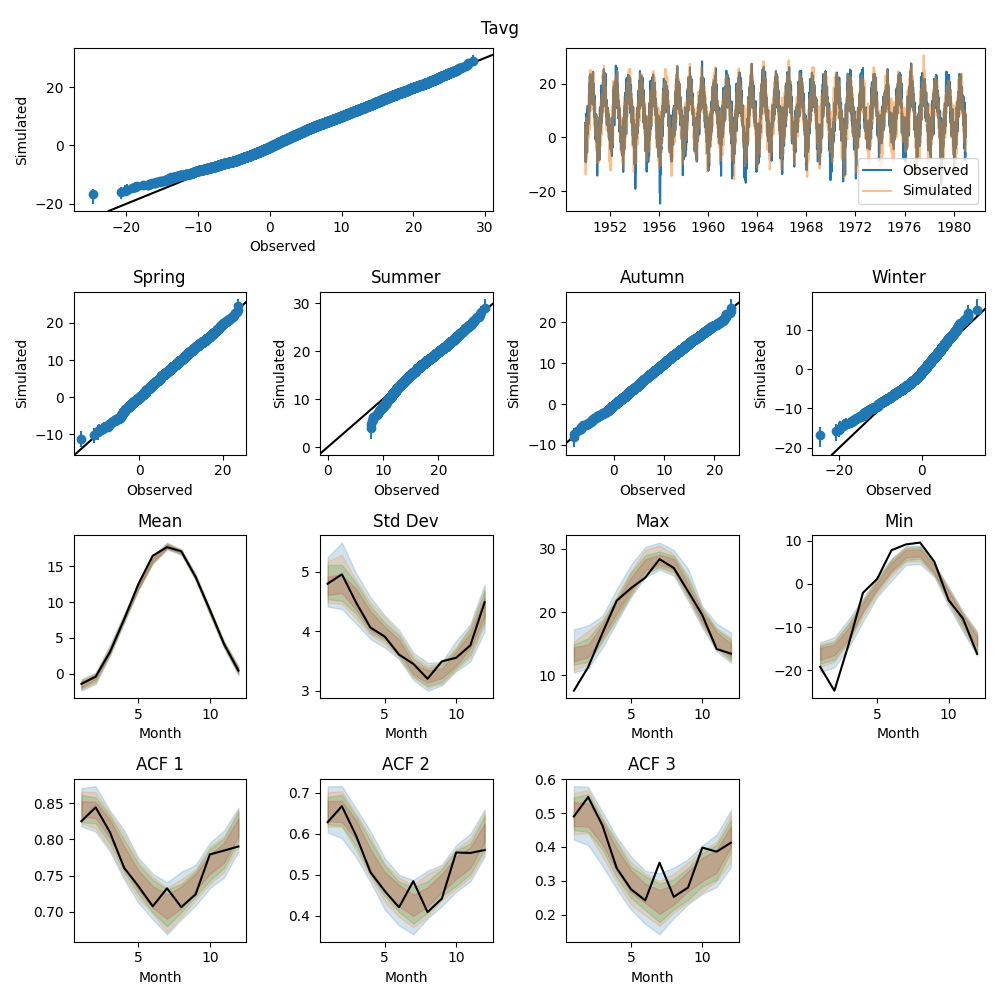
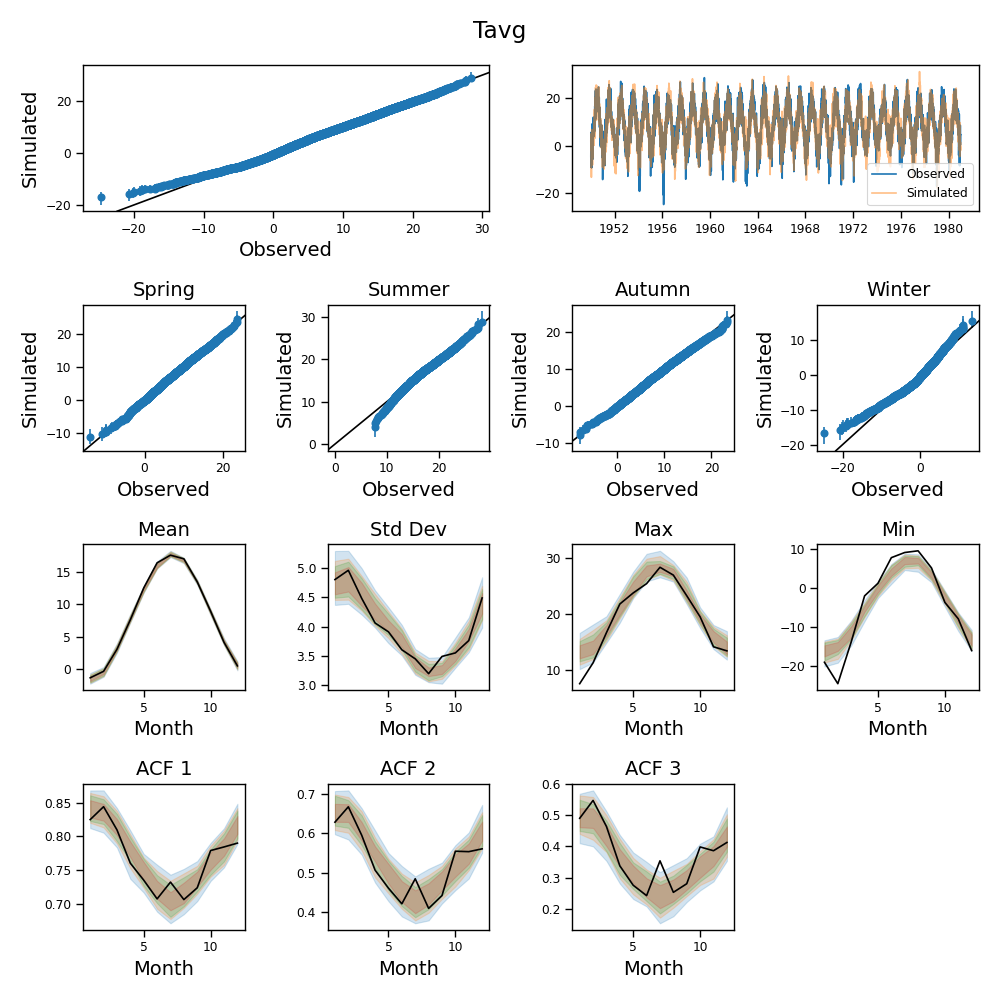
Plotting updates

diff --git a/weathergen/plotting.py b/weathergen/plotting.py
@@ -353,10 +353,10 @@ def Trange_overview(obs, svi_preds, basin_data_train):
 
     # Row 3
     ax_row_3 = [fig.add_subplot(gs[2, i]) for i in range(4)]
-    get_mean_plot(obs["Tavg"], svi_preds["Tavg"], basin_data_train.index, ax=ax_row_3[0])
-    get_std_plot(obs["Tavg"], svi_preds["Tavg"], basin_data_train.index, ax=ax_row_3[1])
-    get_acf_plot(obs["Tavg"], svi_preds["Tavg"], basin_data_train.index, ax=ax_row_3[2], lag=1)
-    get_acf_plot(obs["Tavg"], svi_preds["Tavg"], basin_data_train.index, ax=ax_row_3[3], lag=2)
+    get_mean_plot(obs["Trange"], svi_preds["Trange"], basin_data_train.index, ax=ax_row_3[0])
+    get_std_plot(obs["Trange"], svi_preds["Trange"], basin_data_train.index, ax=ax_row_3[1])
+    get_acf_plot(obs["Trange"], svi_preds["Trange"], basin_data_train.index, ax=ax_row_3[2], lag=1)
+    get_acf_plot(obs["Trange"], svi_preds["Trange"], basin_data_train.index, ax=ax_row_3[3], lag=2)
 
 
 def Tskew_overview(obs, svi_preds, basin_data_train):
@@ -408,12 +408,12 @@ def prec_overview(obs, svi_preds, basin_data_train):
     ax_row_4 = [fig.add_subplot(gs[3, i]) for i in range(4)]
     get_cond_mean_plot(obs["prec"], svi_preds["prec"], basin_data_train.index, ax=ax_row_4[0])
     get_cond_std_plot(obs["prec"], svi_preds["prec"], basin_data_train.index, ax=ax_row_4[1])
-    get_acf_plot(obs["Tavg"], svi_preds["Tavg"], basin_data_train.index, ax=ax_row_4[2], lag=1)
-    get_acf_plot(obs["Tavg"], svi_preds["Tavg"], basin_data_train.index, ax=ax_row_4[3], lag=2)
+    get_acf_plot(obs["prec"], svi_preds["prec"], basin_data_train.index, ax=ax_row_4[2], lag=1)
+    get_acf_plot(obs["prec"], svi_preds["prec"], basin_data_train.index, ax=ax_row_4[3], lag=2)
 
     # Row 5
     ax_row_5 = [fig.add_subplot(gs[4, i]) for i in range(4)]
-    get_acf_plot(obs["Tavg"], svi_preds["Tavg"], basin_data_train.index, ax=ax_row_5[0], lag=3)
+    get_acf_plot(obs["prec"], svi_preds["prec"], basin_data_train.index, ax=ax_row_5[0], lag=3)
     get_temp_precip_cor_plot(
         obs["Tavg"], svi_preds["Tavg"], obs["prec"], svi_preds["prec"], basin_data_train.index, ax=ax_row_5[1]
     )
@@ -435,7 +435,7 @@ def Tmin_overview(obs, svi_preds, basin_data_train):
 
     # Row 2
     build_qq_plot_by_season(
-        obs["Tavg"], svi_preds["Tavg"], basin_data_train.index, axs=[fig.add_subplot(gs[1, i]) for i in range(4)]
+        obs["Tmin"], svi_preds["Tmin"], basin_data_train.index, axs=[fig.add_subplot(gs[1, i]) for i in range(4)]
     )
 
     # Row 3
@@ -467,7 +467,7 @@ def Tmax_overview(obs, svi_preds, basin_data_train):
 
     # Row 2
     build_qq_plot_by_season(
-        obs["Tavg"], svi_preds["Tavg"], basin_data_train.index, axs=[fig.add_subplot(gs[1, i]) for i in range(4)]
+        obs["Tmax"], svi_preds["Tmax"], basin_data_train.index, axs=[fig.add_subplot(gs[1, i]) for i in range(4)]
     )
 
     # Row 3
